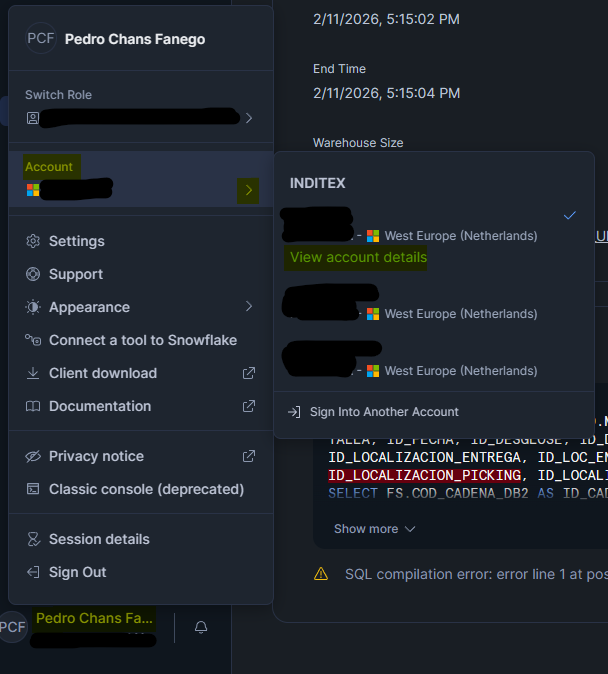
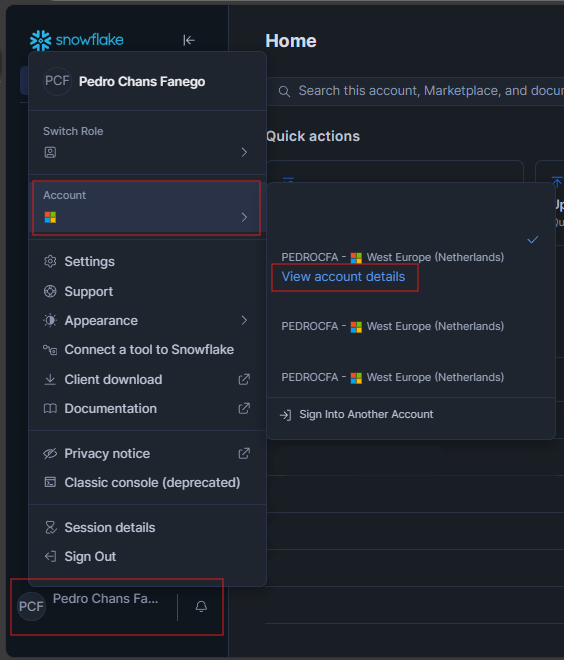
improve README:
-copy comand for windows
-use single quotes in .env
-use cmd instead of powershell
-better images

diff --git a/README.md b/README.md
@@ -70,6 +70,8 @@ This repository is a fork from [snowflake-mcp-server](https://github.com/dynamik
 
 ### Installation Steps
 
+Follow the next steps by executing the commands in your terminal. **Preferably use cmd instead of powershell**.
+
 1. **Clone this repository**:
    ```bash
    git clone https://github.com/pedrochans/snowflake-mcp-server.git
@@ -77,10 +79,6 @@ This repository is a fork from [snowflake-mcp-server](https://github.com/dynamik
    ```bash
    cd snowflake-mcp-server
    ```
-
-   Or, in VS Code in **Source Control Menu** (<kbd>Ctrl</kbd> + <kbd>Shift</kbd> + <kbd>G</kbd>), go to **Source Control Menu → Clone Repository → Clone from Github** → Paste the URL or use the search bar
-
-   <img src="img/clone-repository.png" alt="Clone Repository from GitHub" width="75%">
 
 2. **Install uv**:
    
@@ -100,13 +98,12 @@ This repository is a fork from [snowflake-mcp-server](https://github.com/dynamik
    uv venv
    ```
    
-   On Windows:
+   Activate the environment
    ```bash
+   # Windows:
    .venv\Scripts\activate
-   ```
-   
-   On macOS/Linux:
-   ```bash
+
+   # macOS/Linux:
    source .venv/bin/activate
    ```
    
@@ -130,17 +127,30 @@ This repository is a fork from [snowflake-mcp-server](https://github.com/dynamik
 
    **For external browser authentication**:
    ```bash
+   # Linux:
    cp .env.browser.example .env
+
+   # Windows:
+   copy .env.browser.example .env
    ```
    Then edit the `.env` file to set your Snowflake account details.
 
    **For private key authentication**:
    ```bash
+   # Linux:
    cp .env.private_key.example .env
-   ```
-   Then edit the `.env` file to set your Snowflake account details and path to your private key.
 
-   You can find your Snowflake account details in Snowsight > Profile > View Account Details:
+   # Windows:
+   copy .env.private_key.example .env
+   ```
+
+   Then edit the `.env` file to set your Snowflake account details or path to your private key.
+
+   Use simple quotes  `'` , after editing the `.env` file, it should look like this, with your credentials:
+
+   ![alt text](img/image-9.png)
+
+   If you are lost in this step, you can find your Snowflake account details in Snowsight > Profile > View Account Details:
 
    ![alt text](img/image-7.png)
 
@@ -211,7 +221,8 @@ and start prompting!
 
 5. Now, the only thing you have to do every time you want to use it is start the MCP server like this:
 
-![alt text](img/image-8.png)
+   ![alt text](img/image-8.png)
+
 
 Authenticate, and just ask Copilot to query some data in Snowflake! 
 
